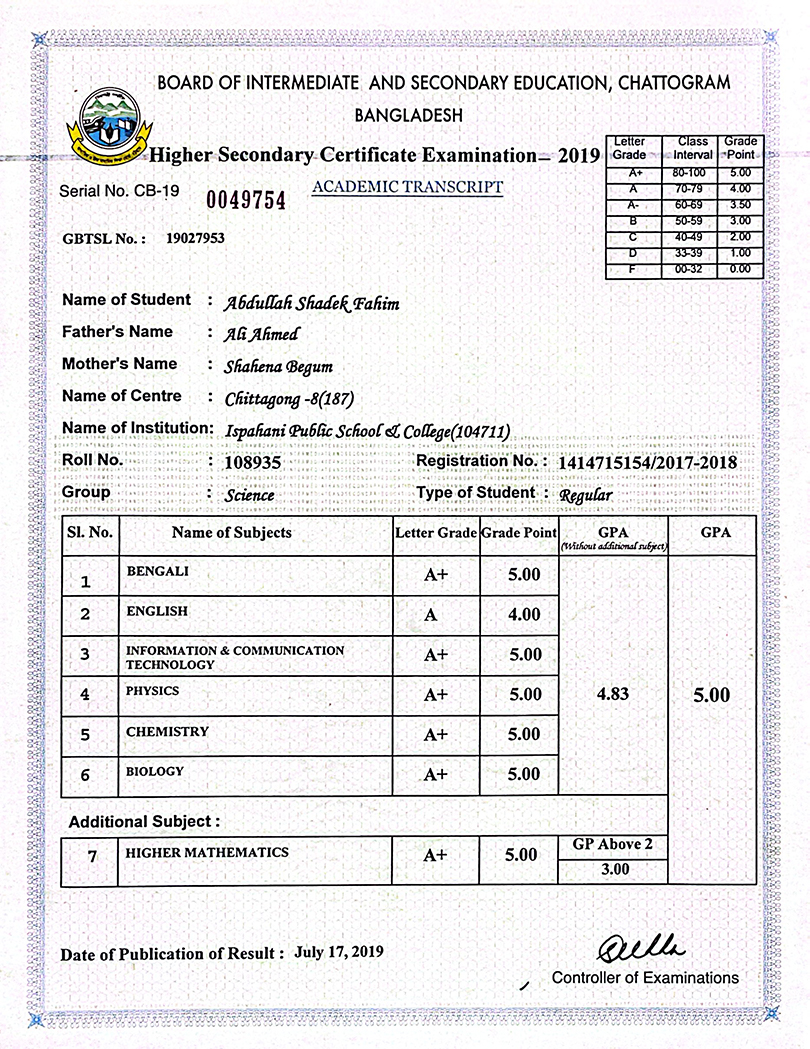
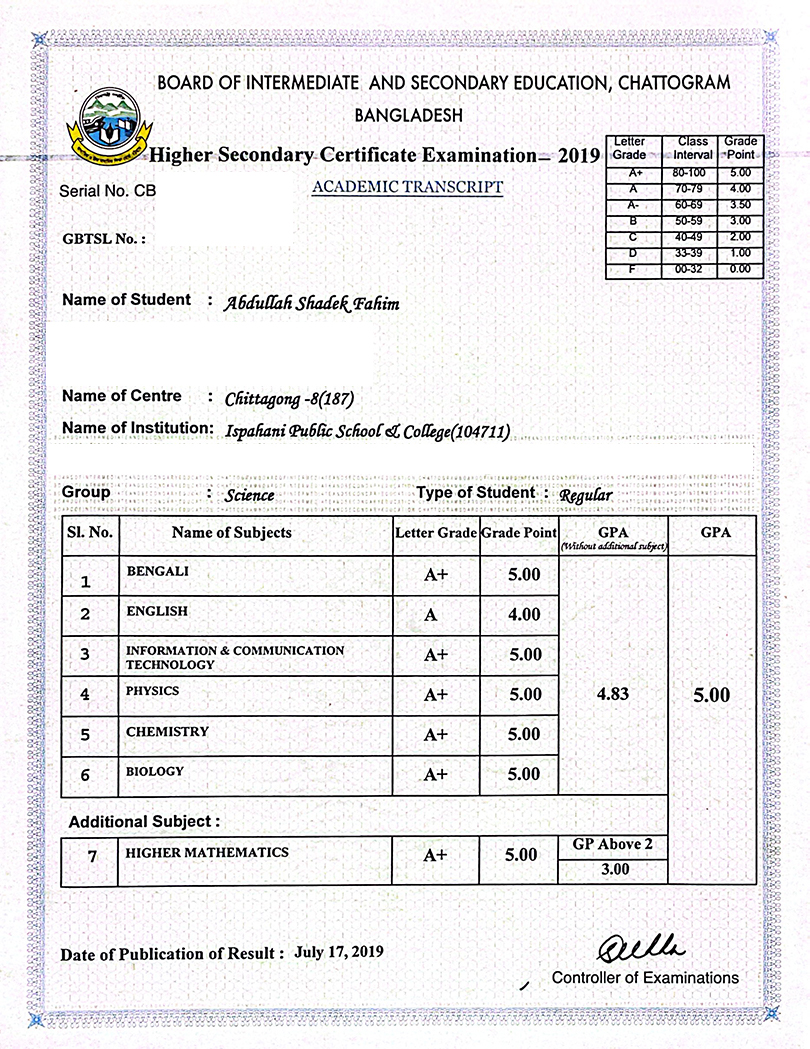
Update 🎓 Education “1-5c0f5ae9a61f” +1

diff --git a/content/education/1-5c0f5ae9a61f.md b/content/education/1-5c0f5ae9a61f.md
@@ -1,18 +1,21 @@
 ---
-order: 1
 level: College
 institution: Ispahani Public School & College, Chittagong
 degree: Higher Secondary Certificate (Science)
 passing: '2019'
-location: Zakir Hossain Road in Chittagong, Bangladesh
 gpa: 5.00/5.00
 rank: ''
-logo: /assets/images/pasted-image-1779131573742.png
+location: Zakir Hossain Road in Chittagong, Bangladesh
+website: ''
 icon: 🎓
 icon_bg: var(--blue-l)
+logo: /assets/images/pasted-image-1779131573742.png
 photo: /assets/images/pasted-image-1777051786534.png
 certificate: ''
 transcript: /assets/images/HSC_marksheet.jpg
 description: During my time at Ispahani Public School & College, I pursued a rigorous curriculum in Science Group, focusing on key subjects such as Bengali Language & Literature, English, Physics, Chemistry, Mathematics, Biology, and Information and Communication Technology (ICT). Beyond academics, I actively participated in cultural programs and represented my college in various competitions, showcasing my skills and dedication in diverse areas.
 subjects: Bengali Language & Literature, English, Physics, Chemistry, Mathematics, Biology, and Information and Communication Technology (ICT)
+youtube: ''
+youtube_title: ''
+order: 1
 ---
